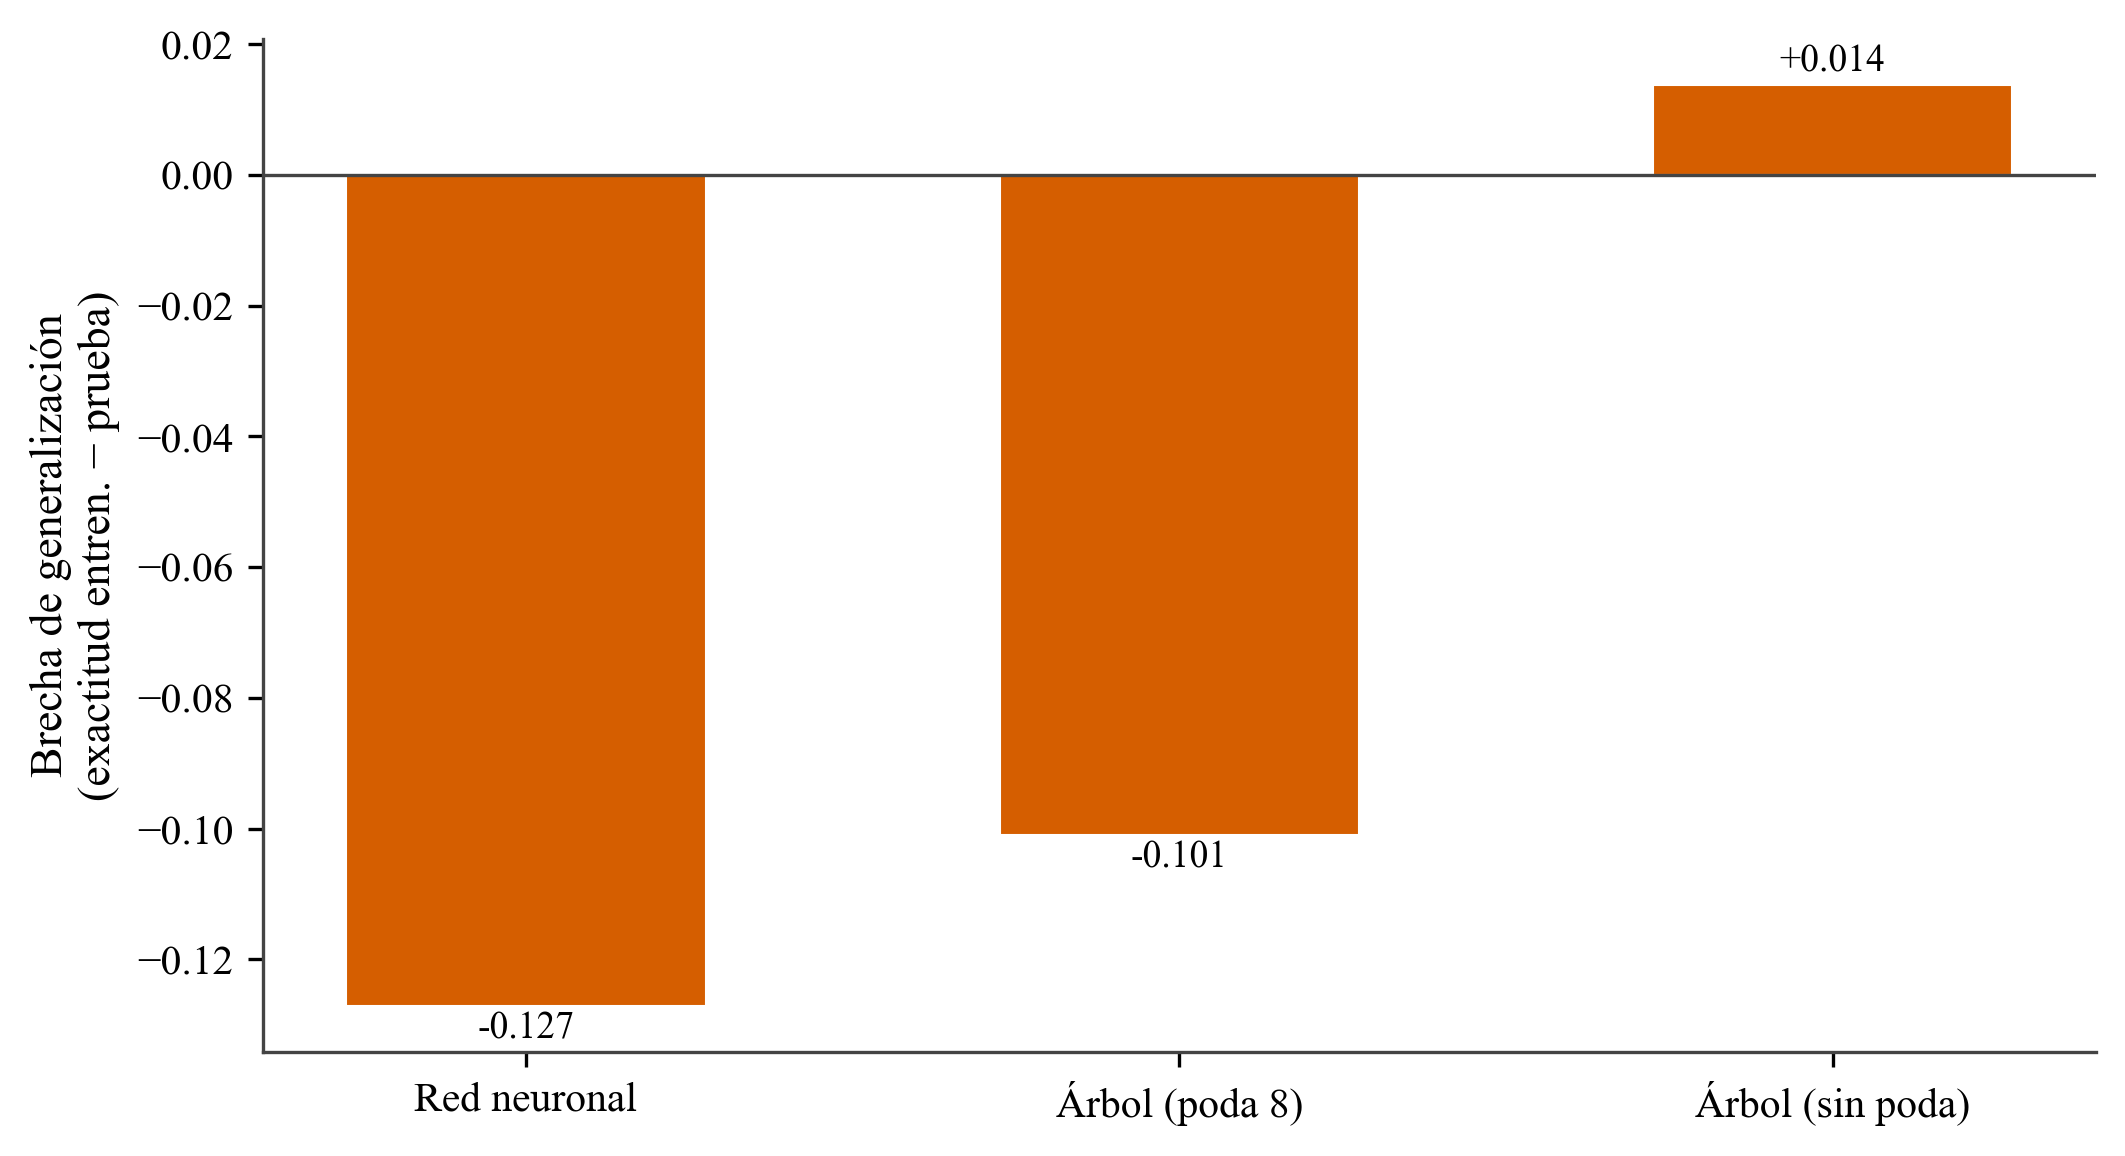
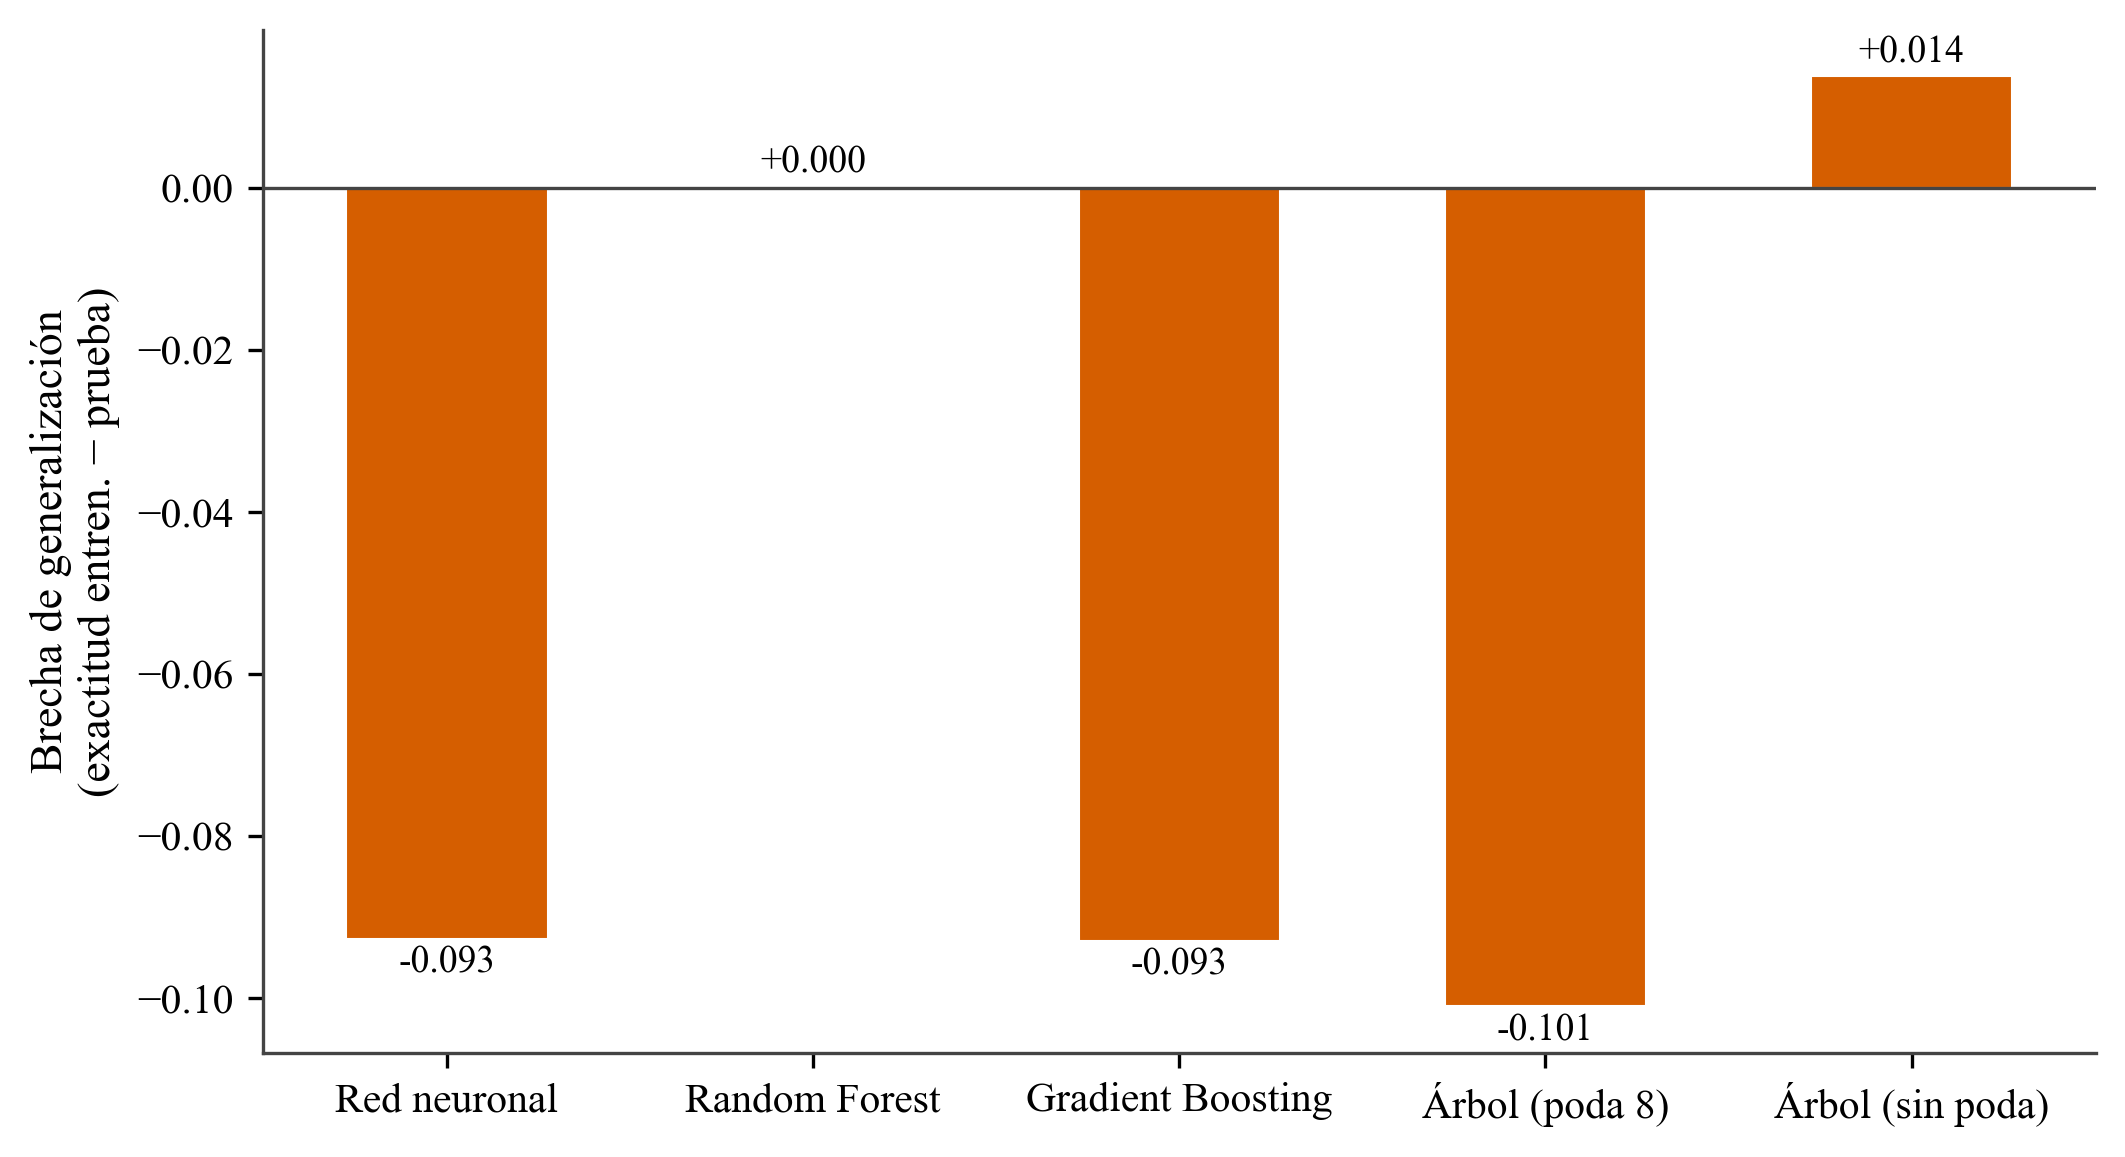
fix(figuras): brecha de generalización desde el corte único (conserva gap y train_acc)

diff --git a/src/satec/models/figures.py b/src/satec/models/figures.py
@@ -61,7 +61,12 @@ def main(repo: str = ".") -> None:
     import pandas as pd
     res = pd.read_csv(os.path.join(repo, "results", "metricas_modelos.csv"))
     plot_metrics_bar(res, os.path.join(repo, "results", "fig_metricas.png"))
-    plot_generalization_gap(res, os.path.join(repo, "results", "fig_brecha.png"))
+    # La brecha de generalización (exactitud entren. − prueba) es propia de una
+    # partición única; se toma del corte único (≤2019 / 2020–2024), que conserva
+    # train_acc y gap. El origen móvil promedia varios cortes y no los expone.
+    corte = pd.read_csv(
+        os.path.join(repo, "results", "metricas_modelos_corte_unico.csv"))
+    plot_generalization_gap(corte, os.path.join(repo, "results", "fig_brecha.png"))
     print("[OK] figuras en results/")
 
 